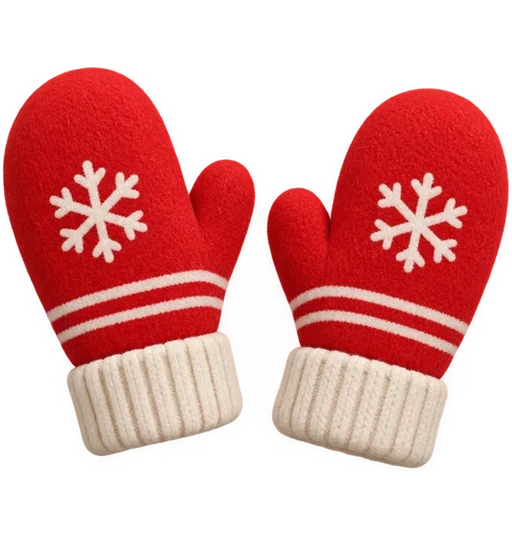
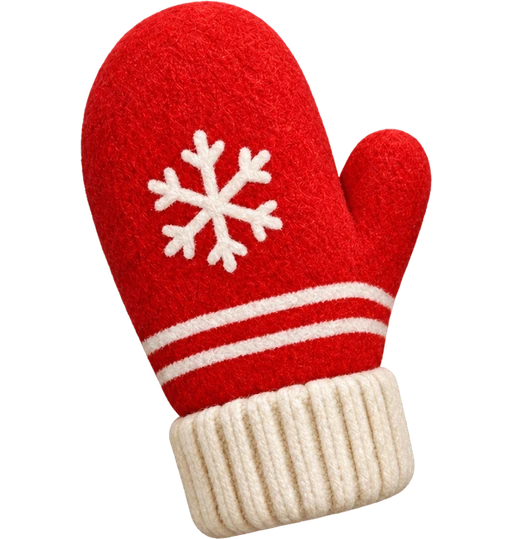
Phonics common rules: mitten from the representative pictures; phonics-api judge update
- mitten's card picture = 공통이미지자료 representative image (via the kit's picture lookup:
  lesson pack, else the representative set); the other 18 cards unchanged.
- phonics-api.js re-copied from the kit: the word's own first sound said again before it
  costs almost nothing (chant), and judge() reports rel. readflow api: all 5 cases unchanged.

diff --git a/tools/fit_cards.py b/tools/fit_cards.py
@@ -7,8 +7,8 @@ allows — but no bigger than one common visual size (√(width × height) ≤ T
 don't tower over the thin ones.
 
 usage: /Users/jini/.hermes/bin/uv run --with pillow --with numpy python tools/fit_cards.py   (import_cards.py runs it too)
-Source = the lesson pack's picture (Phonics/공통자료/FP.K.U1L1-lesson-pack = the representative images, phonics-kit rule
-2026-11-19) for the words it has, else Phonics Island's cards2 original (mitten), else a hand-added 512² card here
+Source = the common picture (phonics-kit rule 2026-11-19: the lesson pack's image, else 공통이미지자료/FPR K_U1,2 대표이미지 —
+all 19 incl. mitten), else Phonics Island's cards2 original, else a hand-added 512² card here
 (fitted once: a fitted card is 512 × 532, so a re-run leaves it as it is). moon keeps the pack's square night sky.
 """
 import pathlib
@@ -26,8 +26,9 @@ PACK = lessonpack.load(lessonpack.pack_dir('FP.K.U1L1'))['words']
 
 
 def source(word: str) -> pathlib.Path:
-    e = PACK.get(word)
-    return pathlib.Path(e['image']) if e and e['image'] else PI / f'{word}.webp'
+    # the common picture (lesson pack, else 공통이미지자료/FPR K_U1,2 대표이미지 — mitten), else Phonics Island's card
+    pic = lessonpack.picture(word)
+    return pathlib.Path(pic) if pic else PI / f'{word}.webp'
 # the card's picture box (hud.prepCard + style.css .pic-card): a w × 1.24w card, padding 7 % of its width (5.5 % below),
 # gap 3.5 % of the inner height, the word's line 1.15 × 0.12 h → a box 0.86w wide, 0.905w tall
 BOX_W, BOX_H = 0.86, 0.905
